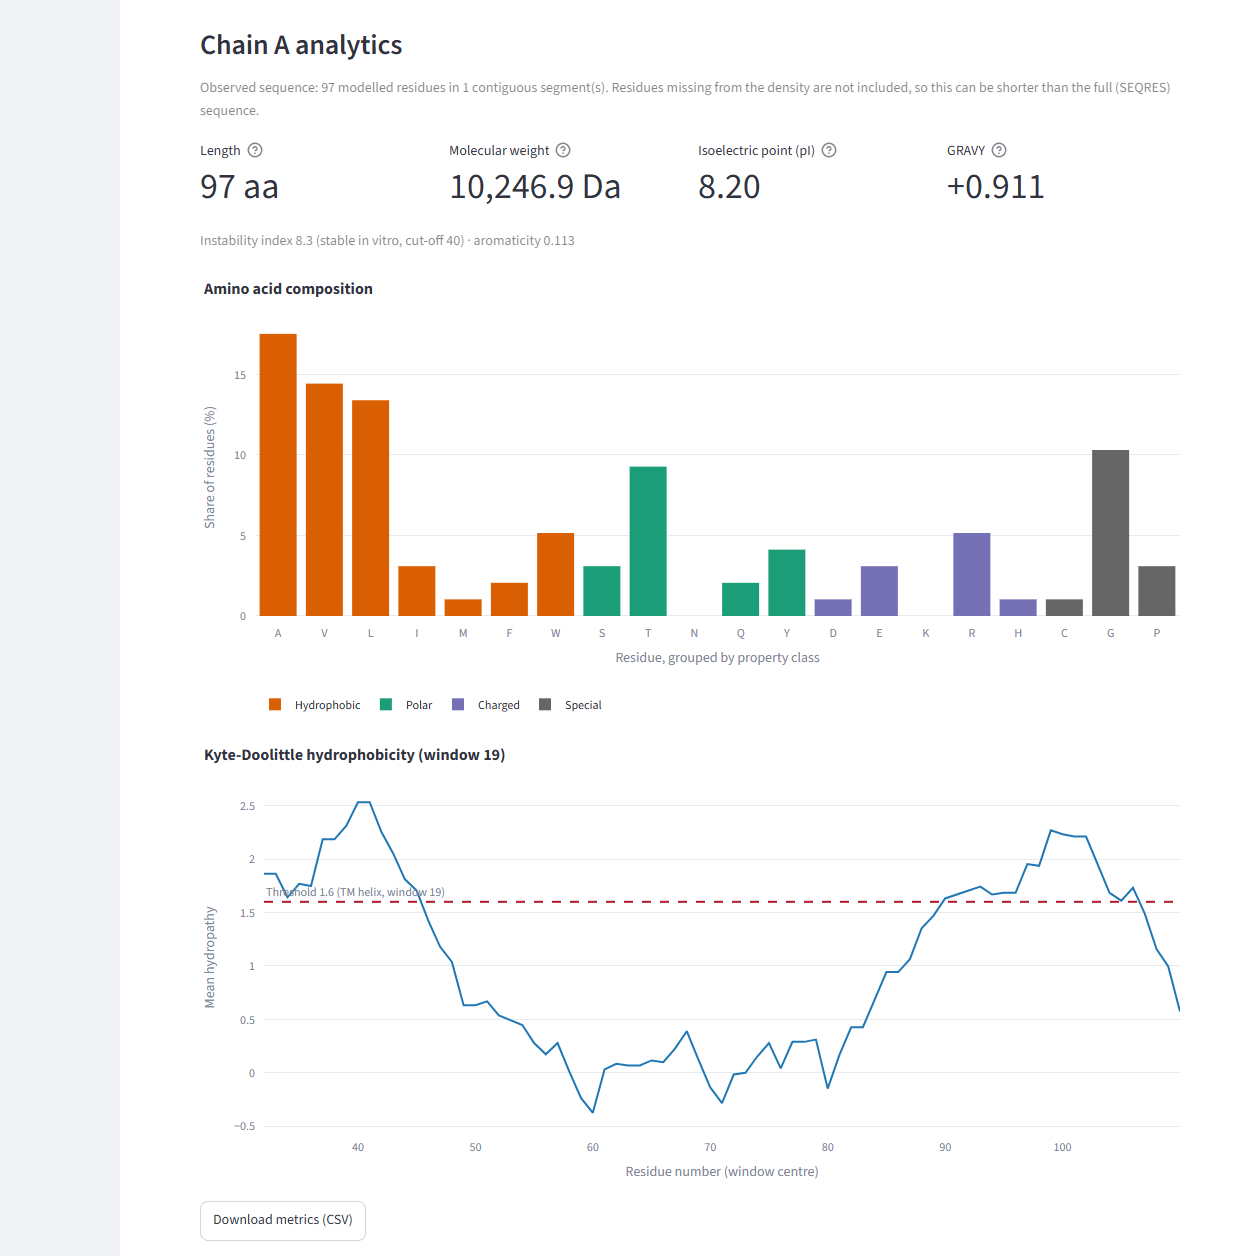
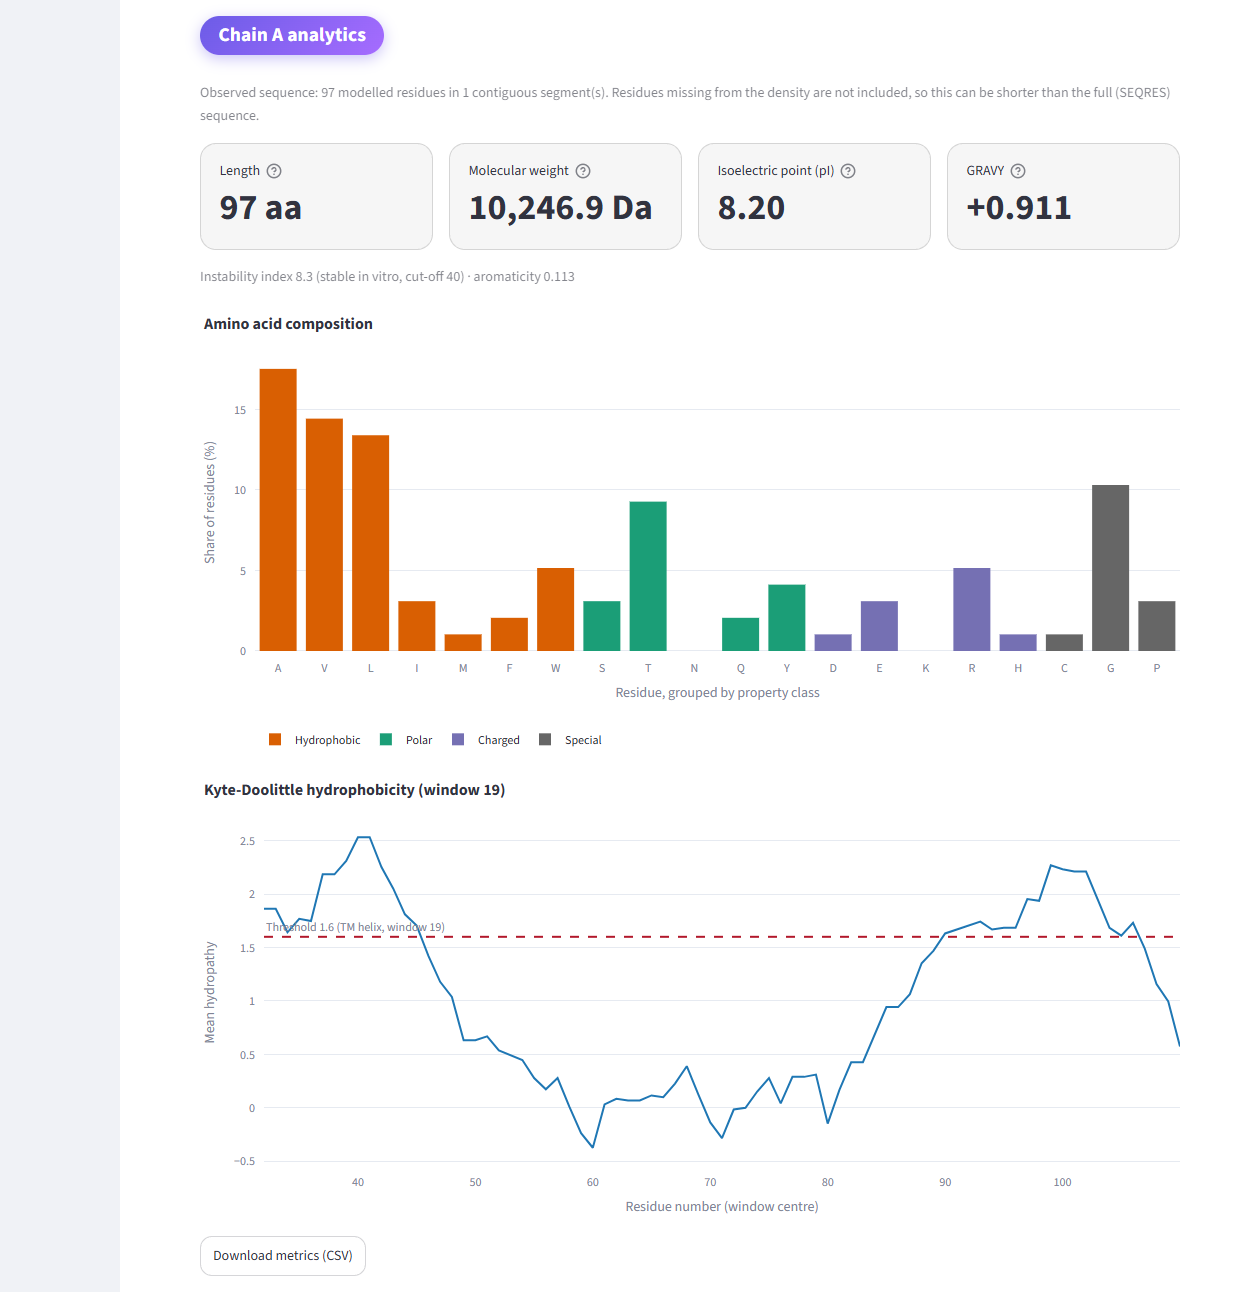
feat(ui): restyle with accent pill headings, metric cards and a white framed viewer
The 3D canvas is white in both themes. Theme sections in config.toml keep Streamlit following light/dark.

diff --git a/src/protein_dashboard/app.py b/src/protein_dashboard/app.py
@@ -8,7 +8,7 @@ from datetime import timedelta
 import streamlit as st
 import streamlit.components.v1 as components
 
-from . import analysis, charts, rcsb_client, viewer
+from . import analysis, charts, rcsb_client, style, viewer
 from .rcsb_client import EntryMetadata, RcsbClient, RcsbError
 from .structure import UNKNOWN_RESIDUE, ParsedStructure, StructureParseError, parse_structure
 
@@ -131,7 +131,12 @@ def render_menu() -> None:
     with st.sidebar:
         home_column, theme_column = st.columns([3, 1], vertical_alignment="center")
         home_column.button(
-            "Home", icon=":material/home:", key="home", on_click=go_home, width="stretch"
+            "Home",
+            icon=":material/home:",
+            key="home",
+            on_click=go_home,
+            width="stretch",
+            type="primary",
         )
         dark = is_dark_theme()
         theme_column.button(
@@ -148,7 +153,7 @@ def render_menu() -> None:
 
 def render_search() -> None:
     with st.sidebar:
-        st.header("Find a structure")
+        style.section("Find a structure")
         with st.form("search"):
             query = st.text_input("PDB ID or keyword", placeholder="1UBQ, or e.g. hemoglobin")
             submitted = st.form_submit_button("Search", width="stretch")
@@ -224,7 +229,7 @@ def render_controls(
     """Sidebar controls that depend on the loaded structure."""
     with st.sidebar:
         st.divider()
-        st.header("Analysis")
+        style.section("Analysis")
         chain_id = st.selectbox(
             "Chain",
             [c.chain_id for c in parsed.chains],
@@ -235,7 +240,7 @@ def render_controls(
         max_window = analysis.max_window(usable)
         window = render_window_controls(max_window)
 
-        st.header("3D view")
+        style.section("3D view")
         mode = st.selectbox("Colour by", list(viewer.ColorMode))
         surface = st.checkbox("Show surface", disabled=viewer.is_heavy(parsed))
         ligands = st.checkbox(
@@ -246,7 +251,6 @@ def render_controls(
         show_surface=surface,
         show_ligands=ligands,
         focus_chain=chain_id if len(parsed.chains) > 1 else None,
-        dark=is_dark_theme(),
     )
     return chain_id, window, options
 
@@ -304,7 +308,7 @@ def render_entry(pdb_id: str, entry: EntryMetadata, parsed: ParsedStructure) -> 
             f"Large structure ({parsed.atom_count:,} atoms). To keep the browser responsive "
             "only the backbone trace is drawn; surface and ligands are disabled."
         )
-    st.subheader("3D structure")
+    style.section("3D structure")
     view = viewer.build_view(load_structure_text(pdb_id), parsed, options, VIEWER_HEIGHT)
     viewer.show_view(view, VIEWER_HEIGHT)
     if options.color_mode is viewer.ColorMode.HYDROPHOBICITY:
@@ -312,7 +316,7 @@ def render_entry(pdb_id: str, entry: EntryMetadata, parsed: ParsedStructure) -> 
     if chain.ligand_names:
         st.caption(f"Ligands on chain {chain_id}: {', '.join(chain.ligand_names)}")
 
-    st.subheader(f"Chain {chain_id} analytics")
+    style.section(f"Chain {chain_id} analytics")
     st.caption(
         f"Observed sequence: {chain.residue_count} modelled residues in {chain.segment_count} "
         "contiguous segment(s). Residues missing from the density are not included, so this "
@@ -346,6 +350,7 @@ def render_entry(pdb_id: str, entry: EntryMetadata, parsed: ParsedStructure) -> 
 
 def main() -> None:
     st.set_page_config(page_title="Protein Structure Dashboard", layout="wide")
+    style.inject()
     st.title("Protein Structure Dashboard")
     render_menu()
     render_search()

diff --git a/src/protein_dashboard/style.py b/src/protein_dashboard/style.py
@@ -1,0 +1,106 @@
+"""Visual polish kept apart from app logic: one stylesheet and one heading helper.
+
+Colours that must work in both light and dark mode are either the accent (readable on
+either background) or translucent greys, so no per-theme branching is needed here.
+"""
+
+from __future__ import annotations
+
+from html import escape
+
+import streamlit as st
+
+CSS = """
+<style>
+:root {
+  --accent: #6c5ce7;
+  --accent-2: #a66cff;
+  --card-border: rgba(128, 128, 128, 0.28);
+  --card-fill: rgba(128, 128, 128, 0.07);
+}
+
+/* Page title: gradient text */
+[data-testid="stMain"] h1 {
+  background: linear-gradient(90deg, var(--accent), var(--accent-2) 70%, #ff7eb6);
+  -webkit-background-clip: text;
+  background-clip: text;
+  -webkit-text-fill-color: transparent;
+  font-weight: 800;
+  letter-spacing: -0.5px;
+}
+
+/* Section headings as accent pills */
+.section-pill {
+  display: inline-block;
+  margin: 1.1rem 0 0.7rem;
+  padding: 0.45rem 1.15rem;
+  border-radius: 999px;
+  background: linear-gradient(135deg, var(--accent), var(--accent-2));
+  box-shadow: 0 4px 14px rgba(108, 92, 231, 0.35);
+  color: #fff;
+  font-size: 1.2rem;
+  font-weight: 700;
+  line-height: 1.3;
+  letter-spacing: 0.2px;
+}
+[data-testid="stSidebar"] .section-pill {
+  font-size: 1.05rem;
+  padding: 0.4rem 1rem;
+}
+
+/* Buttons */
+.stButton button, .stDownloadButton button, [data-testid="stFormSubmitButton"] button {
+  border-radius: 12px;
+  font-weight: 600;
+  transition: transform 0.12s ease, box-shadow 0.12s ease, border-color 0.12s ease;
+}
+.stButton button:hover, .stDownloadButton button:hover,
+[data-testid="stFormSubmitButton"] button:hover {
+  transform: translateY(-1px);
+  box-shadow: 0 4px 12px rgba(108, 92, 231, 0.25);
+  border-color: var(--accent);
+}
+
+/* Metric cards */
+[data-testid="stMetric"] {
+  background: var(--card-fill);
+  border: 1px solid var(--card-border);
+  border-radius: 16px;
+  padding: 0.9rem 1.15rem;
+}
+[data-testid="stMetricValue"] { font-weight: 700; }
+
+/* Example cards */
+[data-testid="stMain"] [data-testid="stVerticalBlockBorderWrapper"] {
+  border-radius: 18px;
+  background: var(--card-fill);
+  transition: transform 0.15s ease, box-shadow 0.15s ease, border-color 0.15s ease;
+}
+[data-testid="stMain"] [data-testid="stVerticalBlockBorderWrapper"]:hover {
+  transform: translateY(-3px);
+  border-color: var(--accent);
+  box-shadow: 0 10px 26px rgba(108, 92, 231, 0.22);
+}
+
+/* 3D viewer: always a white canvas, framed like a card */
+[data-testid="stMain"] iframe {
+  background: #fff;
+  border: 1px solid var(--card-border);
+  border-radius: 18px;
+  box-shadow: 0 8px 28px rgba(0, 0, 0, 0.14);
+}
+
+/* Sidebar search form */
+[data-testid="stSidebar"] [data-testid="stForm"] { border-radius: 16px; }
+</style>
+"""
+
+
+def inject() -> None:
+    # st.html adds no layout gap, unlike an st.markdown element holding only a <style>.
+    st.html(CSS)
+
+
+def section(title: str) -> None:
+    """A large accent pill used as a section heading (in the main area or the sidebar)."""
+    st.html(f'<div class="section-pill">{escape(title)}</div>')

diff --git a/src/protein_dashboard/viewer.py b/src/protein_dashboard/viewer.py
@@ -21,8 +21,6 @@ NEUTRAL_RGB = (245, 245, 245)
 HYDROPHOBIC_RGB = (214, 87, 29)
 UNKNOWN_COLOUR = "#bdbdbd"
 DIMMED_OPACITY = 0.25
-LIGHT_BACKGROUND = "#ffffff"
-DARK_BACKGROUND = "#0e1117"  # Streamlit's own dark page colour, so the viewer blends in
 
 
 class ColorMode(StrEnum):
@@ -37,7 +35,6 @@ class ViewerOptions:
     show_surface: bool = False
     show_ligands: bool = True
     focus_chain: str | None = None  # other chains are drawn translucent
-    dark: bool = False  # the viewer lives in an iframe, so it cannot inherit the page theme
 
 
 def is_heavy(structure: ParsedStructure) -> bool:
@@ -86,7 +83,6 @@ def build_view(
 ) -> py3Dmol.view:
     heavy = is_heavy(structure)
     view = py3Dmol.view(width="100%", height=height)
-    view.setBackgroundColor(DARK_BACKGROUND if options.dark else LIGHT_BACKGROUND)
     view.addModel(trim_mmcif(mmcif_text, backbone_only=heavy), "cif")
 
     colours = _colour_style(options, structure)

diff --git a/tests/test_viewer.py b/tests/test_viewer.py
@@ -66,11 +66,6 @@ def test_each_colour_mode_emits_its_style(
     assert expected in html.replace(" ", "")
 
 
-def test_viewer_background_follows_the_page_theme(ubiquitin: ParsedStructure) -> None:
-    assert viewer.LIGHT_BACKGROUND in html_for(ubiquitin, ViewerOptions())
-    assert viewer.DARK_BACKGROUND in html_for(ubiquitin, ViewerOptions(dark=True))
-
-
 def test_surface_is_off_by_default_and_toggles_on(ubiquitin: ParsedStructure) -> None:
     assert "addSurface" not in html_for(ubiquitin, ViewerOptions())
     assert "addSurface" in html_for(ubiquitin, ViewerOptions(show_surface=True))

diff --git a/scripts/screenshots.py b/scripts/screenshots.py
@@ -47,7 +47,7 @@ def shoot_charts(page: Page, base_url: str) -> None:
     page.get_by_role("button", name="Transmembrane preset").click()
     page.get_by_text("Kyte-Doolittle hydrophobicity (window 19)").wait_for(timeout=30_000)
     time.sleep(3)
-    top = page.get_by_role("heading", name="Chain A analytics").bounding_box()
+    top = page.get_by_text("Chain A analytics").bounding_box()
     bottom = page.get_by_role("button", name="Download metrics (CSV)").bounding_box()
     assert top and bottom
     clip = {
